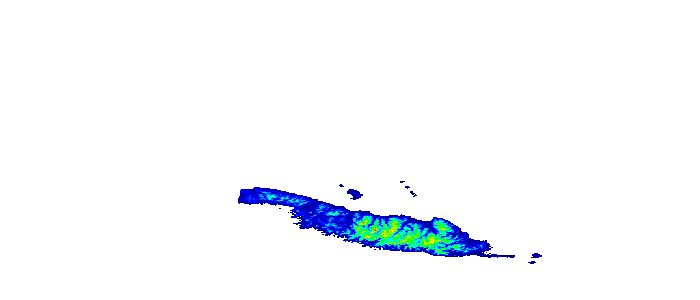
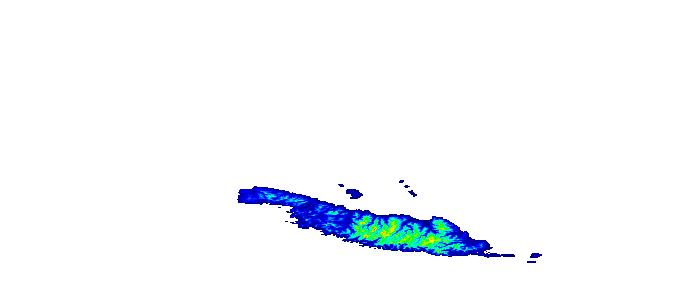
Reviewing tests with new GDAL based rasters

Changed region(s): [[0.33, 0.6, 0.72, 0.87], [0.75, 0.84, 0.78, 0.87], [0.48, 0.63, 0.51, 0.66]]

diff --git a/mrgeo-core/src/main/java/org/mrgeo/utils/GDALUtils.java b/mrgeo-core/src/main/java/org/mrgeo/utils/GDALUtils.java
@@ -404,37 +404,42 @@ public static Dataset toDataset(Raster raster, final double nodata)
   final Dataset ds = GDALUtils.createEmptyMemoryRaster(raster.getWidth(), raster.getHeight(),
       raster.getNumBands(), type, nodatas);
 
-  for (int b = 0; b < raster.getNumBands(); b++)
+  if (ds != null)
   {
-    final Band band = ds.GetRasterBand(b + 1);
+    ds.SetProjection(GDALUtils.EPSG4326);
 
-    Object elements = raster.getDataElements(raster.getMinX(), raster.getMinY(),
-        raster.getWidth(), raster.getHeight(), null);
+    for (int b = 0; b < raster.getNumBands(); b++)
+    {
+      final Band band = ds.GetRasterBand(b + 1);
 
-    if (type == gdalconstConstants.GDT_Byte)
-    {
-      band.WriteRaster(0, 0, raster.getWidth(),
-          raster.getHeight(), (byte[]) elements);
-    }
-    else if (type == gdalconstConstants.GDT_Int16 || type == gdalconstConstants.GDT_UInt16)
-    {
-      band.WriteRaster(0, 0, raster.getWidth(),
-          raster.getHeight(), (short[]) elements);
-    }
-    else if (type == gdalconstConstants.GDT_Int32)
-    {
-      band.WriteRaster(0, 0, raster.getWidth(),
-          raster.getHeight(), (int[]) elements);
-    }
-    else if (type == gdalconstConstants.GDT_Float32)
-    {
-      band.WriteRaster(0, 0, raster.getWidth(),
-          raster.getHeight(), (float[]) elements);
-    }
-    else if (type == gdalconstConstants.GDT_Float64)
-    {
-      band.WriteRaster(0, 0, raster.getWidth(),
-          raster.getHeight(), (double[]) elements);
+      Object elements = raster.getDataElements(raster.getMinX(), raster.getMinY(),
+          raster.getWidth(), raster.getHeight(), null);
+
+      if (type == gdalconstConstants.GDT_Byte)
+      {
+        band.WriteRaster(0, 0, raster.getWidth(),
+            raster.getHeight(), (byte[]) elements);
+      }
+      else if (type == gdalconstConstants.GDT_Int16 || type == gdalconstConstants.GDT_UInt16)
+      {
+        band.WriteRaster(0, 0, raster.getWidth(),
+            raster.getHeight(), (short[]) elements);
+      }
+      else if (type == gdalconstConstants.GDT_Int32)
+      {
+        band.WriteRaster(0, 0, raster.getWidth(),
+            raster.getHeight(), (int[]) elements);
+      }
+      else if (type == gdalconstConstants.GDT_Float32)
+      {
+        band.WriteRaster(0, 0, raster.getWidth(),
+            raster.getHeight(), (float[]) elements);
+      }
+      else if (type == gdalconstConstants.GDT_Float64)
+      {
+        band.WriteRaster(0, 0, raster.getWidth(),
+            raster.getHeight(), (double[]) elements);
+      }
     }
   }
 
@@ -447,7 +452,7 @@ public static Raster toRaster(Dataset image)
   final int[] bandlist = new int[bands];
   for (int x = 0; x < bands; x++)
   {
-    bandlist[x] = x;
+    bandlist[x] = x + 1;
   }
 
   final int datatype = image.GetRasterBand(1).getDataType();
@@ -456,10 +461,14 @@ public static Raster toRaster(Dataset image)
   final int w = image.getRasterXSize();
   final int h = image.getRasterYSize();
 
-  final ByteBuffer buf = ByteBuffer.allocateDirect(datasize * w * h * bands);
+  final int size = datasize * w * h * bands;
+  final ByteBuffer buf = ByteBuffer.allocateDirect(size);
+  buf.order(ByteOrder.nativeOrder());
   image.ReadRaster_Direct(0, 0, w, h, w, h, datatype, buf, bandlist);
 
-  return GDALUtils.toRaster(h, w, bands, datatype, buf.array());
+  byte[] data = new byte[size];
+  buf.get(data);
+  return GDALUtils.toRaster(h, w, bands, datatype, data);
 }
 
 public static Raster toRaster(int height, int width, int bands,

diff --git a/mrgeo-services/mrgeo-services-core/src/main/java/org/mrgeo/services/mrspyramid/rendering/ImageRendererAbstract.java b/mrgeo-services/mrgeo-services-core/src/main/java/org/mrgeo/services/mrspyramid/rendering/ImageRendererAbstract.java
@@ -70,7 +70,7 @@ private MrsImage image;
 
 public ImageRendererAbstract()
 {
-    this.srs = GDALUtils.EPSG4326;
+  this.srs = GDALUtils.EPSG4326;
 }
 
 public ImageRendererAbstract(final SpatialReference srs)
@@ -315,16 +315,51 @@ public Raster renderImage(final String pyramidName, final Bounds bounds, final i
 
       TMSUtils.Pixel requestedUL =
           TMSUtils.latLonToPixelsUL(requestedBounds.w, requestedBounds.n, zoomLevel, tilesize);
+      TMSUtils.Pixel requestedLR =
+          TMSUtils.latLonToPixelsUL(requestedBounds.e, requestedBounds.s, zoomLevel, tilesize);
+
       TMSUtils.Pixel actualUL =
           TMSUtils.latLonToPixelsUL(actualBounds.w, actualBounds.n, zoomLevel, tilesize);
+      TMSUtils.Pixel actualLR =
+          TMSUtils.latLonToPixelsUL(actualBounds.e, actualBounds.s, zoomLevel, tilesize);
 
-      long offsetX = requestedUL.px - actualUL.px;
-      long offsetY = requestedUL.py - actualUL.py;
+      int offsetX = (int)(requestedUL.px - actualUL.px);
+      int offsetY = (int)(requestedUL.py - actualUL.py);
 
-      Raster cropped = merged.createChild((int)offsetX, (int)offsetY, width, height, 0, 0, null);
+      int croppedW = (int)(requestedUL.px - requestedLR.px);
+      int croppedH = (int)(requestedUL.py - requestedLR.py);
+
+      Raster cropped = merged.createChild(offsetX, offsetY, croppedW, croppedH, 0, 0, null);
       Dataset src = GDALUtils.toDataset(cropped, pyramidMetadata.getDefaultValue(0));
 
       Dataset dst = GDALUtils.createEmptyMemoryRaster(src, width, height);
+
+      final double res = TMSUtils.resolution(zoomLevel, tilesize);
+
+      final double[] srcxform = new double[6];
+
+      // set the transform for the src
+      srcxform[0] = requestedBounds.w; /* top left x */
+      srcxform[1] = res; /* w-e pixel resolution */
+      srcxform[2] = 0; /* 0 */
+      srcxform[3] = requestedBounds.n; /* top left y */
+      srcxform[4] = 0; /* 0 */
+      srcxform[5] = -res; /* n-s pixel resolution (negative value) */
+
+      src.SetGeoTransform(srcxform);
+
+      // now change only the resolution for the dst
+      final double[] dstxform = new double[6];
+
+      dstxform[0] = requestedBounds.w; /* top left x */
+      dstxform[1] = (requestedBounds.e - requestedBounds.w) / width;; /* w-e pixel resolution */
+      dstxform[2] = 0; /* 0 */
+      dstxform[3] = requestedBounds.n; /* top left y */
+      dstxform[4] = 0; /* 0 */
+      dstxform[5] = (requestedBounds.s - requestedBounds.n) / height; /* n-s pixel resolution (negative value) */
+
+      dst.SetGeoTransform(dstxform);
+
 
       int resample = gdalconstConstants.GRA_Bilinear;
       if (pyramidMetadata.getClassification() == MrsImagePyramidMetadata.Classification.Categorical) {
@@ -342,13 +377,19 @@ public Raster renderImage(final String pyramidName, final Bounds bounds, final i
         }
       }
 
-      SpatialReference dstcrs = new SpatialReference();
-      dstcrs.SetWellKnownGeogCS(epsg);
+      // default is WGS84
+      String dstcrs = GDALUtils.EPSG4326;
+      if (epsg != null && !epsg.equalsIgnoreCase("epsg:4326"))
+      {
+        SpatialReference crs = new SpatialReference();
+        crs.SetWellKnownGeogCS(epsg);
+
+        dstcrs = crs.ExportToWkt();
+      }
 
       log.debug("Scaling image...");
-      gdal.ReprojectImage(src, dst, GDALUtils.EPSG4326, dstcrs.ExportToWkt(), resample);
+      gdal.ReprojectImage(src, dst, GDALUtils.EPSG4326, dstcrs, resample);
       log.debug("Image scaled.");
-
 
       return GDALUtils.toRaster(dst);
     }

diff --git a/mrgeo-services/mrgeo-services-wms/src/test/java/org/mrgeo/resources/wms/WmsGeneratorTestAbstract.java b/mrgeo-services/mrgeo-services-wms/src/test/java/org/mrgeo/resources/wms/WmsGeneratorTestAbstract.java
@@ -66,7 +66,7 @@ public class WmsGeneratorTestAbstract extends JerseyTest
 
   // only set this to true to generate new baseline images after correcting tests; image comparison
   // tests won't be run when is set to true
-  public final static boolean GEN_BASELINE_DATA_ONLY = false;
+  public final static boolean GEN_BASELINE_DATA_ONLY = true;
   // bounds is completely outside of the image bounds
   public final static String ISLANDS_ELEVATION_V2_OUT_OF_BOUNDS =
       "160.312500,-12.656250,161.718750,-11.250000";
